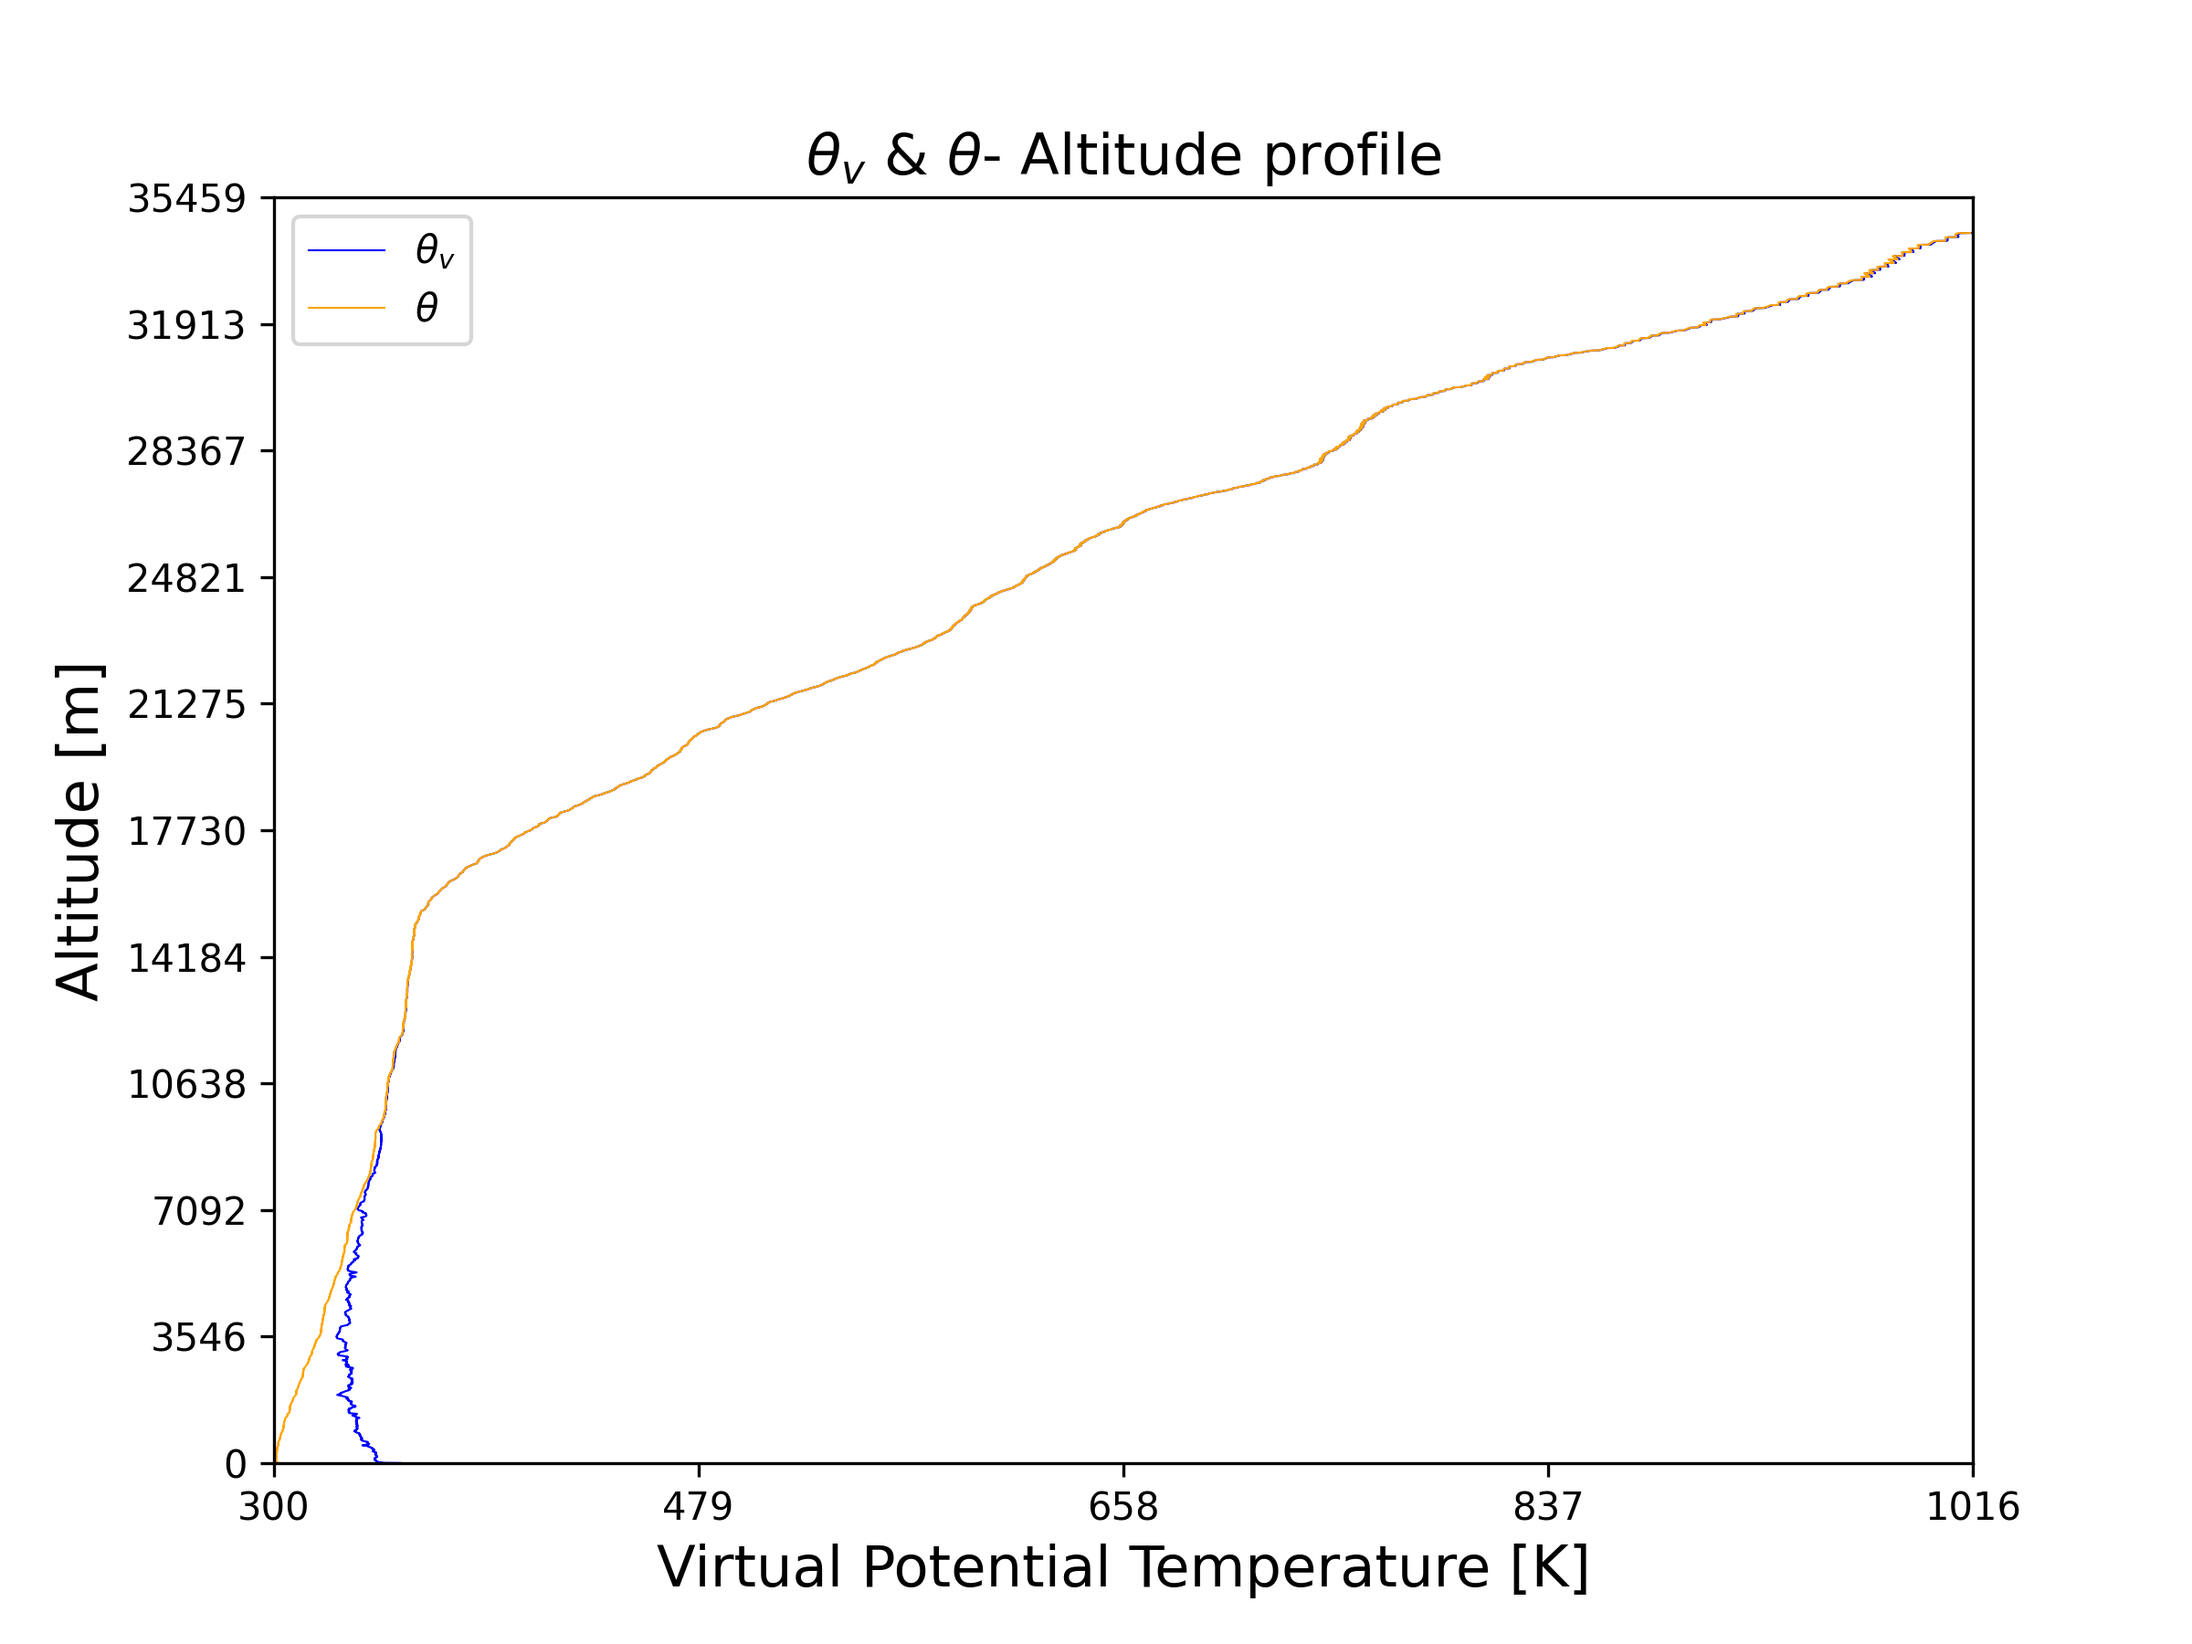
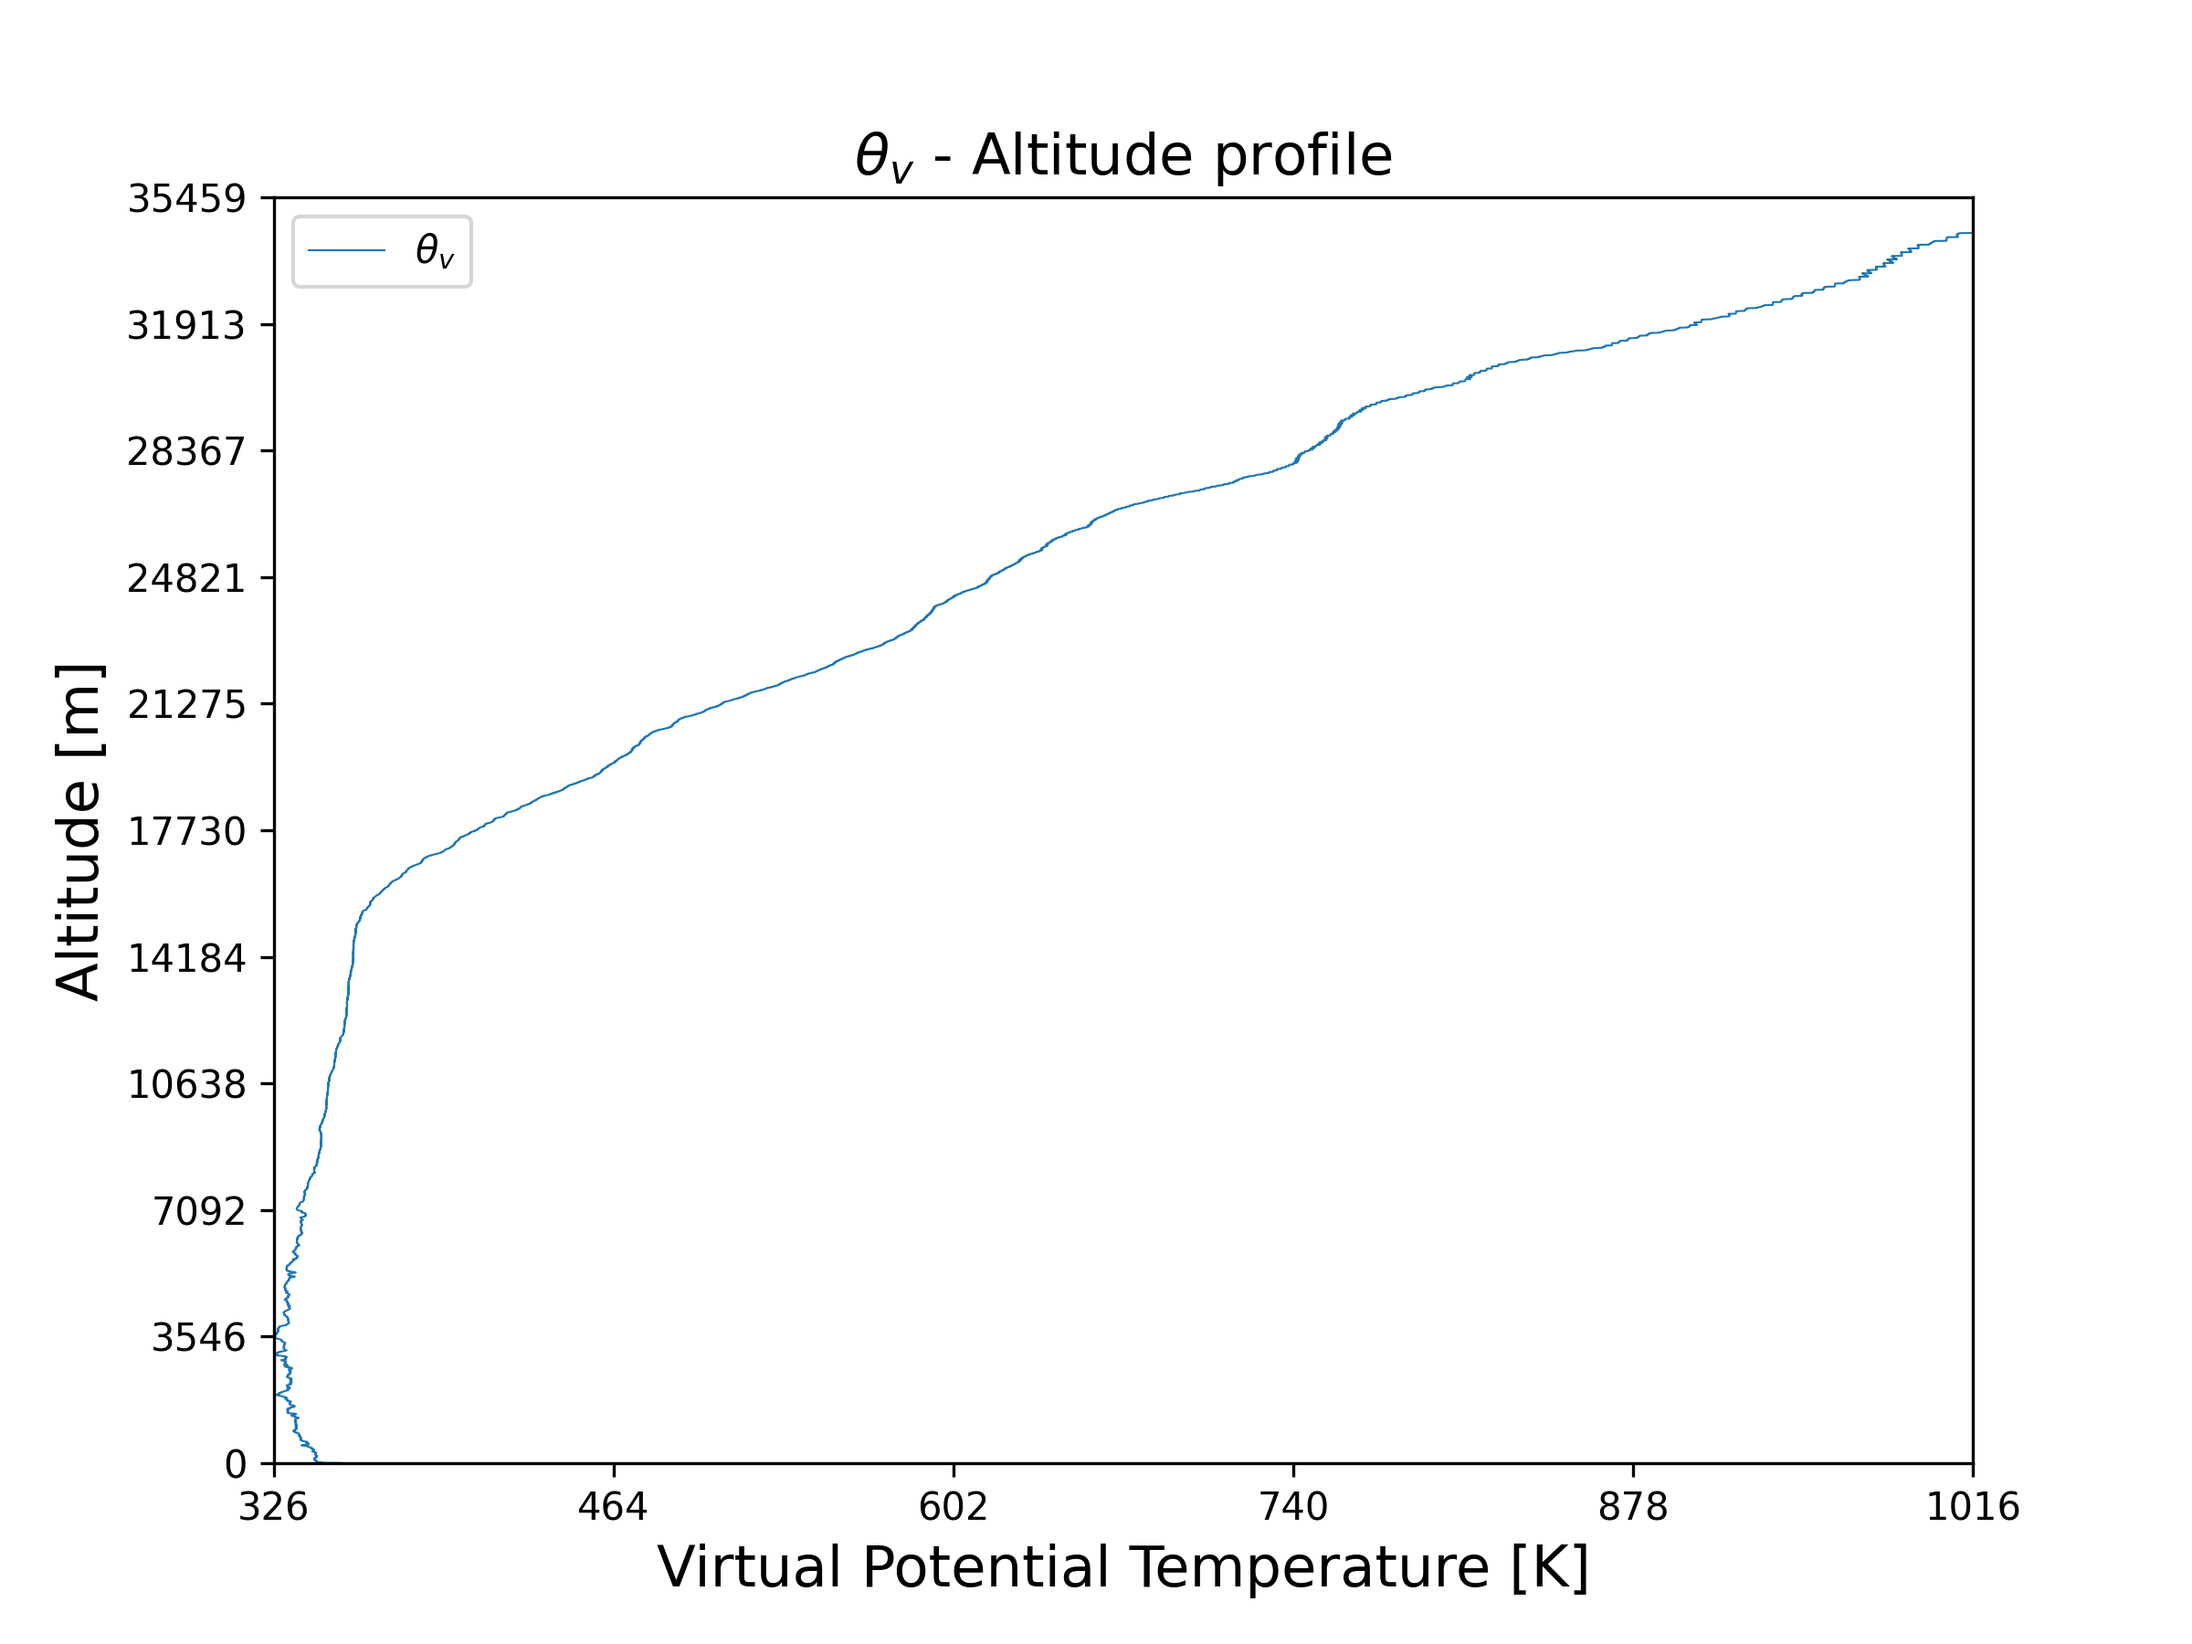
20230218

diff --git a/大一下/大氣熱力學/CA3/CA3.py b/大一下/大氣熱力學/CA3/CA3.py
@@ -1,0 +1,236 @@
+# import library
+import numpy as np
+from matplotlib import pyplot as plt
+
+# set constant
+a = 2.53*1e8
+b = 5.42*1e3
+ep = 0.622
+p0 = 1000
+Rd = 287
+Cp = 1004
+Gd = -9.8
+
+# load file
+H, P, T, U = np.loadtxt(r"C:\Users\joe51\OneDrive\桌面\profile_ntu\大一下\大氣熱力學\CA3\46810-2018072100.edt.txt", delimiter = ',', usecols = (1, 2, 3, 4), skiprows = 3, unpack = True)
+
+T = T+273.15
+
+# calculate for qv
+es = a*np.exp(-b/T)
+e = es*U
+qv = (ep*e)/(P-(1-ep)*e)
+
+# calculate for potential temp
+theta = T*(p0/P)**(Rd/Cp)
+
+# calculate for theta_v
+theta_v = T*(1+0.608*qv)*(p0/P)**(Rd/Cp)
+
+'''
+# plot the graph of theta_v
+fig = plt.figure(figsize = (8,6))
+
+plt.plot(theta_v, H, lw = 0.5)
+plt.xlim([326,1016])
+plt.ylim([0, np.max(H)+1000])
+plt.xticks(np.linspace(326, 1016, 6))
+plt.yticks(np.linspace(0, np.max(H)+1000, 11))
+plt.title(r'$\theta_v$ - Altitude profile', fontsize = 15)
+plt.xlabel('Virtual Potential Temperature [K]', fontsize = 15)
+plt.ylabel('Altitude [m]', fontsize = 15)
+plt.legend([r'$\theta_v$'])
+
+plt.savefig('Virtual_Potential_Temperature_to_Altitude.png', dpi = 300)
+plt.show()
+
+# plot potential temp
+fig = plt.figure(figsize = (8,6))
+plt.plot(theta_v, H, lw = 0.5, color = 'blue')
+plt.plot(theta, H, lw = 0.5, color = 'orange')
+plt.xlim([np.min(theta),np.max(theta_v)])
+plt.ylim([0, np.max(H)+1000])
+plt.xticks(np.linspace(300,1016, 5))
+plt.yticks(np.linspace(0, np.max(H)+1000, 11))
+plt.title(r'$\theta_v$ & $\theta$- Altitude profile', fontsize = 15)
+plt.xlabel('Virtual Potential Temperature [K]', fontsize = 15)
+plt.ylabel('Altitude [m]', fontsize = 15)
+plt.legend([r'$\theta_v$', r'$\theta$'])
+
+plt.savefig('Virtual_Potential_Temperature_andtheta_to_Altitude.png', dpi = 300)
+plt.show()
+
+# plot the difference
+fig = plt.figure(figsize = (8,6))
+dif = theta_v-theta
+plt.plot(dif, H, lw = 0.5)
+plt.xlim([0, 51])
+plt.ylim([0, np.max(H)+1000])
+plt.xticks(np.linspace(0, 52, 5))
+plt.yticks(np.linspace(0, np.max(H)+1000, 11))
+plt.title(r'Difference between $\theta_v-\theta$ - Altitude Profile', fontsize = 15)
+plt.xlabel('Difference [K]', fontsize = 15)
+plt.ylabel('Altitude [m]', fontsize = 15)
+plt.legend(['Difference'])
+plt.savefig('Difference.png', dpi = 300)
+plt.show()
+
+# lapse rate of surrounding
+def lapse(arr1, arr2):
+    arr = np.zeros(len(arr1)-1)
+    for i in range(len(arr1)-1):
+        diff_1 = 0
+        diff_2 = 0
+        diff_1 = arr1[i+1]-arr1[i]
+        diff_2 = arr2[i+1]-arr2[i]
+        if (diff_2 != 0):
+            arr[i] = diff_1/diff_2
+        else :
+            arr[i] = np.nan
+    return arr
+
+def ma(array, num):
+    arrayout = np.zeros(len(array)-2*num)
+    for i in range(num, len(array)-num):
+        t = 0
+        for j in range(i-num, i+num+1):
+            if array[j]!=np.nan:
+                t += array[j]
+            arrayout[i-num] = t/(2*num+1)
+
+    return arrayout
+
+lapse_rate = lapse(T, H)
+ma_lapse_rate = ma(lapse_rate, 300)
+ma_altitude = ma(H, 300)
+
+fig = plt.figure(figsize = (8,6))
+plt.plot(-9.8-ma_lapse_rate, ma_altitude[:(len(ma_altitude)-1)], lw = 0.5)
+plt.axvline(x = -9.8, ymin = 0, ymax = 1, lw = 0.5, color = 'orange')
+plt.xlim([-9.82, -9.78])
+plt.ylim([0, np.max(H)+1000])
+plt.xticks(np.linspace(-9.82, -9.78, 5))
+plt.yticks(np.linspace(0, np.max(H)+1000, 11))
+plt.xlabel('Difference between lapse rate [K/Km]', fontsize = 15)
+plt.ylabel('Altitude [m]', fontsize = 15)
+plt.title('Difference between lapse rate vs. Altitude', fontsize = 15)
+plt.show()
+'''
+
+# 3
+epsilon = 0.622
+Rd = 287
+g = 9.80
+
+Tv = (1+((1/epsilon)-1))*T
+Tv_add = Tv+10
+
+dz = np.empty(18)
+dz_add = np.empty(18)
+Pf = np.empty(18)
+
+def find_nearest(array, value):
+    idxarray = np.empty(len(array))
+    for i in range(len(array)):
+        idxarray[i] = abs(array[i]-value)
+    idx = np.argmin(idxarray)
+    return idx
+
+# method 1: fing the nearest point
+for i in range(18):
+    Pf[i] = 1000-50*i
+    dz[i] = -(Rd/(2*g))*np.log((Pf[i]-10)/Pf[i])*(Tv[find_nearest(P, (Pf[i]-10))]+Tv[find_nearest(P, Pf[i])])
+    dz_add[i] = -(Rd/(2*g))*np.log((Pf[i]-10)/Pf[i])*(Tv[find_nearest(P, (Pf[i]-10))]+Tv[find_nearest(P, Pf[i])]+20)
+
+'''
+plt.scatter(dz, Pf, s = 10)
+plt.scatter(dz_add, Pf, s = 10)
+plt.xlim([np.min(dz), np.max(dz_add)])
+plt.ylim([np.max(P), np.min(Pf)-10])
+plt.xticks(np.linspace(140, 695, 6))
+plt.yticks(Pf)
+plt.xlabel('Physical Depth [m]', fontsize = 15)
+plt.ylabel('Pressure [hPa]', fontsize = 15)
+plt.title('Physical Depth of 10 hPa per 50 hPa by Nearest Point', fontsize = 15)
+plt.legend([r'$T_v$', r'$T_v+10$'], loc = 'lower right')
+
+plt.savefig('Physical_Depth_by_1.png', dpi = 300)
+plt.show()
+
+plt.plot(dz_add-dz, Pf, lw = 0.5)
+plt.scatter(dz_add-dz, Pf, s = 10)
+plt.xlim([np.min(dz_add-dz), np.max(dz_add-dz)])
+plt.ylim([np.max(P), np.min(Pf)-10])
+plt.xticks(np.linspace(2.5, 20.5, 5))
+plt.yticks(Pf)
+plt.xlabel('Differnce of Physical Depth [m]', fontsize = 15)
+plt.ylabel('Pressure [hPa]', fontsize = 15)
+plt.title('Physical Depth Difference of 10 hPa per 50 hPa by Nearest Point', fontsize = 15)
+
+plt.savefig('Physical_Depth_Difference_by_1.png', dpi = 300)
+plt.show()
+'''
+# method 2: Interpolar method
+dz2 = np.empty(18)
+dz_add2 = np.empty(18)
+Pf2 = np.empty(18)
+
+def interpolate(array1, array2, value):
+    ip = (array2[find_nearest(array1, value)+1]-array2[find_nearest(array1, value)])/(array1[find_nearest(array1, value)+1]-find_nearest(array1, value)+1)*(value-find_nearest(array1, value)+1)+array2[find_nearest(array1, value)]
+    return ip
+
+for i in range(18):
+    Pf2[i] = 1000-50*i
+    dz2[i] = -(Rd/(2*g))*np.log((Pf2[i]-10)/Pf2[i])*(interpolate(P, Tv, (Pf2[i]-10))+interpolate(P, Tv, Pf2[i]))
+    dz_add2[i] = -(Rd/(2*g))*np.log((Pf2[i]-10)/Pf2[i])*(interpolate(P, Tv, (Pf2[i]-10))+interpolate(P, Tv, Pf2[i])+20)
+'''
+plt.scatter(dz2, Pf2, s = 10)
+plt.scatter(dz_add2, Pf2, s = 10)
+plt.xlim([np.min(dz2), np.max(dz_add2)])
+plt.ylim([np.max(P), np.min(Pf2)-10])
+plt.xticks(np.linspace(140, 695, 6))
+plt.yticks(Pf2)
+plt.xlabel('Physical Depth [m]', fontsize = 15)
+plt.ylabel('Pressure [hPa]', fontsize = 15)
+plt.title('Physical Depth of 10 hPa per 50 hPa by Interpolation', fontsize = 15)
+plt.legend([r'$T_v$', r'$T_v+10$'], loc = 'lower right')
+
+plt.savefig('Physical_Depth_by_2.png', dpi = 300)
+plt.show()
+
+plt.plot(dz_add2-dz2, Pf, lw = 0.5)
+plt.scatter(dz_add2-dz2, Pf, s = 10)
+plt.xlim([np.min(dz_add2-dz2), np.max(dz_add2-dz2)])
+plt.ylim([np.max(P), np.min(Pf2)-10])
+plt.xticks(np.linspace(2.5, 20.5, 5))
+plt.yticks(Pf)
+plt.xlabel('Differnce of Physical Depth [m]', fontsize = 15)
+plt.ylabel('Pressure [hPa]', fontsize = 15)
+plt.title('Physical Depth Difference of 10 hPa per 50 hPa by Interpolation', fontsize = 15)
+
+plt.savefig('Physical_Depth_Difference_by_2.png', dpi = 300)
+plt.show()
+'''
+
+
+# Difference between the two method
+err_dz = (dz2-dz)/dz2*100
+err_dz_add = (dz_add2-dz_add)/dz_add2*100
+print(err_dz)
+print(err_dz_add)
+
+
+plt.scatter(err_dz, Pf, s = 10)
+plt.plot(err_dz, Pf, lw = 0.5)
+plt.scatter(err_dz_add, Pf, s = 10)
+plt.plot(err_dz_add, Pf, lw = 0.5)
+plt.xlim([np.min(err_dz), 0.01])
+plt.ylim([np.max(P), np.min(Pf2)-10])
+plt.xticks(np.linspace(-0.05, 0., 6))
+plt.yticks(Pf)
+plt.xlabel('Relative Error [%]', fontsize = 15)
+plt.ylabel('Pressure', fontsize = 15)
+plt.title('Relative Error between the Two Method', fontsize = 15)
+plt.legend([r'err_$Tv$', '',r'err_$T_v+10$', ''], loc = 'best')
+plt.savefig('savefig.png')
+plt.show()
